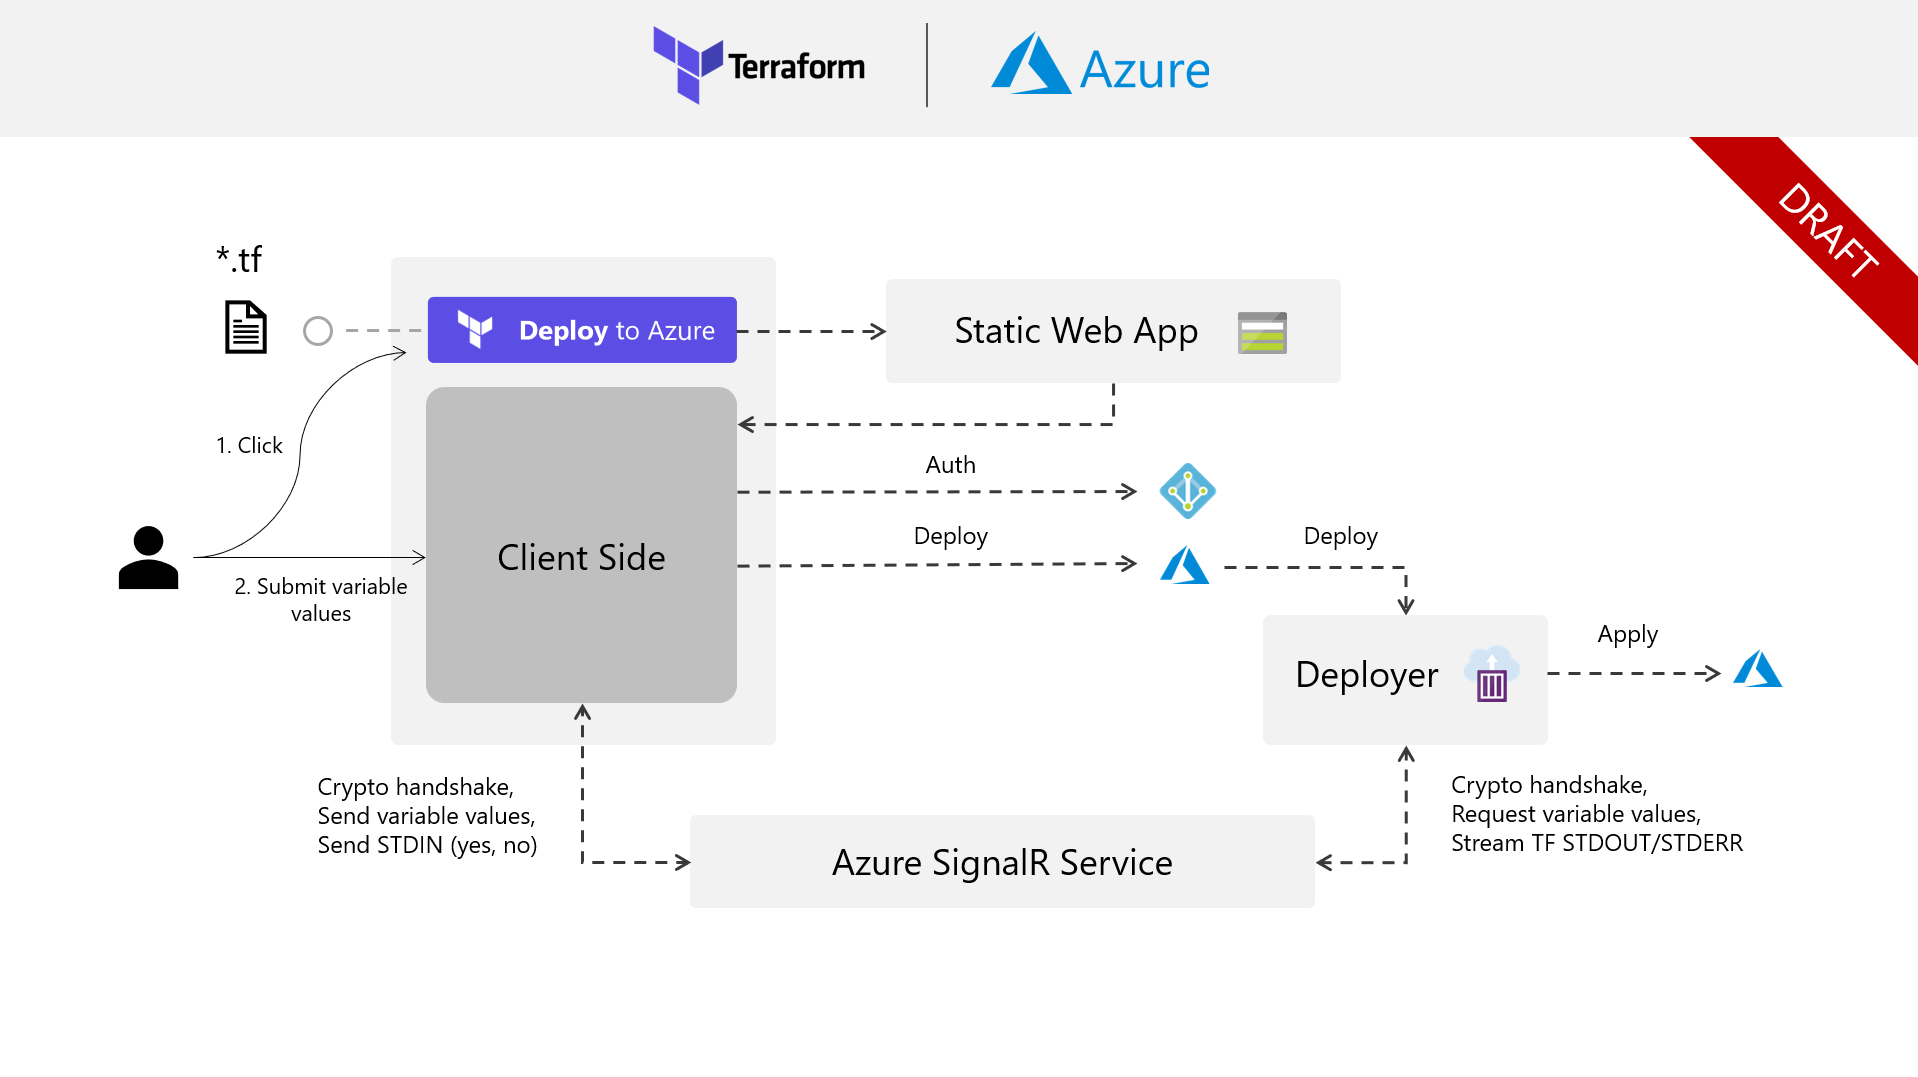
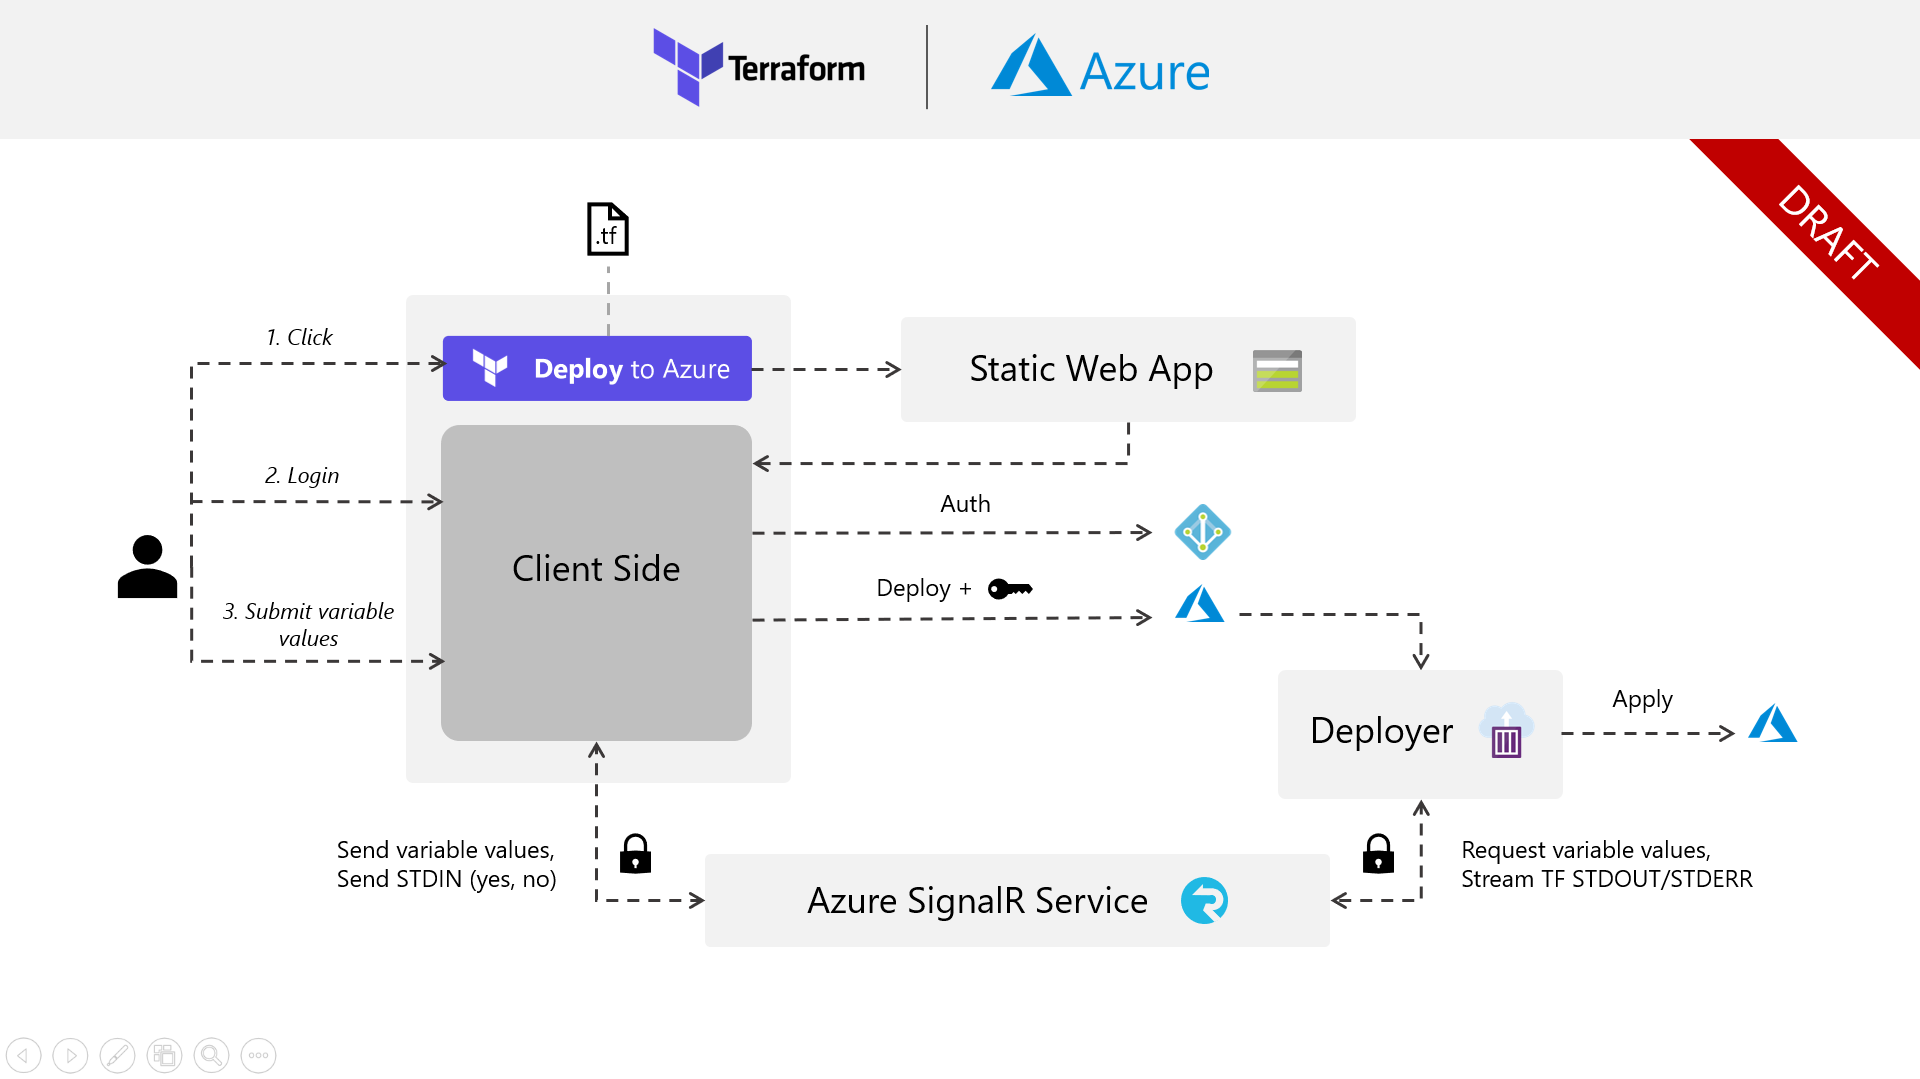
Added screens

diff --git a/README.md b/README.md
@@ -12,3 +12,18 @@ This will allow you to take a Azure Resoure Manager (ARM) template and push it s
 Below is our draft proposal for how to build this system. We want it to be as simple and intuitive as possible for the user.
 
 ![](docs/images/draft.png)
+
+## Screens
+These screen assume the authentication process has been completed and you're now logged in as Joe Bloggs.
+
+### Setup Screen
+This page will display the user with a form to input any variables that are needed by their Terraform template. Any default values will already be placeholder in the associated field. Sanitization and validation will run asynchronously against each input field. Once the user has provided all the required fields, they will be able to progress to the next screen.
+![](docs/images/tfdeploy-screen0.png)
+
+### Preview Screen
+This screen will display a log of the Terraform plan that has been executed with the user's provided variable values. Once the preview is complete, the user will be prompted to input either `yes` or `no` to progress to the next screen. There will be a toggle that allows users to tail the log as it is streamed or stop to inspect a fixed point. Any errors surfaced will be shown here and will prompt a return back to the previous setup screen.
+![](docs/images/tfdeploy-screen1.png)
+
+### Deploy Screen
+The deploy screen will tail a log of the Terraform apply as it deploys the generated plan. This will give the user real time feedback on the progression of their deployment and any errors.
+![](docs/images/tfdeploy-screen2.png)
